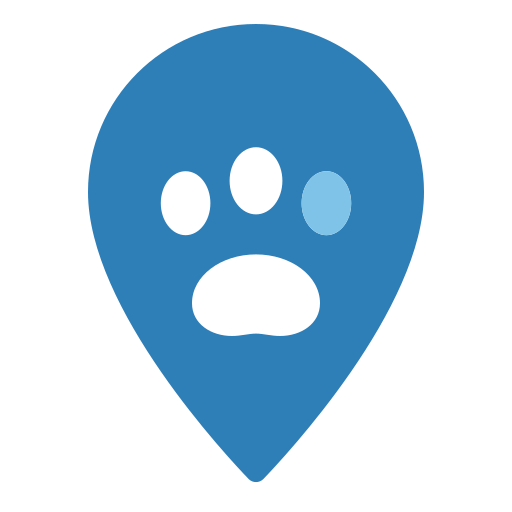
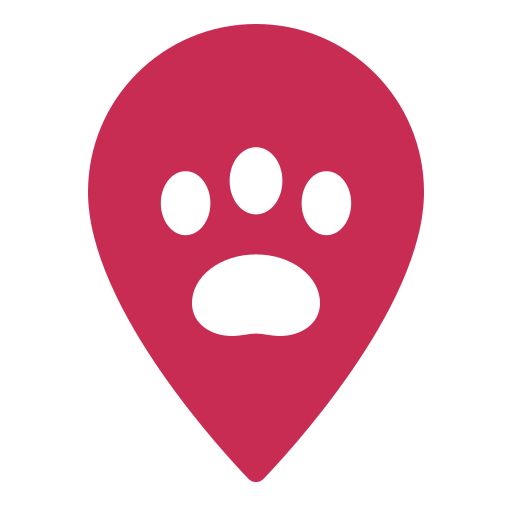
Temayı sadeleştir: beyaz gövde, tek güçlü üst bant, tek renk amblem
Önceki hâlde her yüzey pembeye boyanmıştı ve pembe zeminin üstünde yedi
ayrı kategori rengi (amber, menekşe, gök, camgöbeği…) aynı anda
duruyordu. Renk çokluğu tasarımı zenginleştirmiyor, dağıtıyor.

Kural şimdi net:
  ZEMİN saf beyaz — renk içerikten (fotoğraf, ilan) gelsin.
  ÜST ALANLAR tek güçlü marka rengi (gül #C92C53): başlık çubuğu ve
  birincil düğmeler. Beyaz başlık denendi, gövde de beyaz olduğu için
  üst alan içerikten hiç ayrışmıyordu.
  NÖTR GRİLER kenarlık ve ikincil yüzeylerde; pembe tonlu gri yok.
  KATEGORİ RENKLERİ yalnızca ince şerit olarak. Önce kategori başlığının
  tamamı o renge boyanıyordu ve yedi kategori yan yana gelince menü
  alacalı bir listeye dönüşüyordu.

Amblem tek renk. İki renkli sürüm sitenin gül rengiyle çakışıyordu:
başlıkta beyaz, alt bilgide mavi bir amblem vardı ve ikisi aynı markaya
ait görünmüyordu. Favicon, apple ikonu ve marka SVG'leri de tek renge
geçti.

Ölçüldü: gövde rgb(255,255,255), başlık rgb(201,44,83), beyaz yazı/gül
kontrast 5.30:1 (WCAG AA).

diff --git a/src/components/layout/Header.tsx b/src/components/layout/Header.tsx
@@ -170,10 +170,14 @@ export function Header() {
     if (!user) {
       return (
         <div className="hidden md:flex items-center space-x-2">
-          <Button variant="ghost" asChild>
+          <Button variant="ghost" asChild className="hover:bg-white/15 hover:text-white">
             <Link href="/login" className="text-sm font-medium">Giriş Yap</Link>
           </Button>
-          <Button variant="outline" asChild>
+          <Button
+            variant="outline"
+            asChild
+            className="border-white/50 bg-transparent text-white hover:bg-white/15 hover:text-white"
+          >
             <Link href="/kayit">
               <UserPlus className="mr-2 h-4 w-4" />
               Kayıt Ol
@@ -187,7 +191,7 @@ export function Header() {
       <div className="flex items-center space-x-4">
         <DropdownMenu>
           <DropdownMenuTrigger asChild>
-            <Button variant="ghost" className="flex items-center gap-2 px-3">
+            <Button variant="ghost" className="flex items-center gap-2 px-3 hover:bg-white/15 hover:text-white">
               <span className="font-medium">{profile?.full_name ?? user.email}</span>
               <ChevronDown className="h-4 w-4" />
             </Button>
@@ -230,7 +234,7 @@ export function Header() {
           </DropdownMenuContent>
         </DropdownMenu>
 
-        <Button variant="ghost" size="icon" asChild>
+        <Button variant="ghost" size="icon" asChild className="hover:bg-white/15 hover:text-white">
           <Link href="/mesajlarim">
             <MessageSquare className="h-5 w-5" />
             <span className="sr-only">Mesajlar</span>
@@ -242,30 +246,31 @@ export function Header() {
 
   return (
     <>
-      {/* Başlık çubuğu beyaz.
-          Dolu renkli bant en yaygın ilan sitesi kalıbıydı ve emsallerle aynı
-          silueti veriyordu. Beyaz zemin hem markayı (renkli amblem) öne
-          çıkarıyor hem de altındaki bölüm menüsüyle tek bir blok gibi
-          okunuyor. */}
-      <header className="sticky top-0 z-50 w-full border-b bg-white text-foreground">
+      {/* Başlık çubuğu tek güçlü marka renginde.
+          Beyaz denendi ve sayfa tümüyle renksiz kaldı: gövde zaten beyaz
+          olduğu için üst alan içerikten ayrışmıyordu. Renk yalnızca burada
+          ve birincil düğmelerde — gövde beyaz kaldığı sürece güçlü bir üst
+          bant sayfayı dağıtmıyor, çerçeveliyor. */}
+      <header className="sticky top-0 z-50 w-full bg-primary text-primary-foreground">
         <div className="container flex h-16 items-center px-5">
-          {/* Beyaz zeminde renkli amblem. */}
+          {/* Renkli bantta tek renk amblem: iki renkli sürüm burada
+              okunmuyordu. */}
           <Link href="/" className="mr-6 flex items-center" aria-label="PetSemti ana sayfa">
-            <Logo size={36} />
+            <Logo variant="mono" size={36} />
           </Link>
           
           <div className="flex flex-1 items-center justify-end space-x-4">
               <div className="hidden md:flex items-center space-x-4">
                 {renderAuthContent()}
               </div>
-            <Button asChild>
+            <Button asChild variant="secondary" className="bg-white text-primary hover:bg-white/90">
               <Link href={user ? ilanVerHref(pathname) : '/login'}>İlan Ver</Link>
             </Button>
           </div>
 
           <Sheet open={isSheetOpen} onOpenChange={setSheetOpen}>
             <SheetTrigger asChild>
-              <Button variant="ghost" size="icon" className="md:hidden">
+              <Button variant="ghost" size="icon" className="md:hidden hover:bg-white/15 hover:text-white">
                 <Menu className="h-6 w-6" />
                 <span className="sr-only">Toggle Menu</span>
               </Button>

diff --git a/src/components/layout/CategorySidebar.tsx b/src/components/layout/CategorySidebar.tsx
@@ -243,15 +243,20 @@ export function CategorySidebar({
               const open = isOpen(category.id, index);
               return (
               <section key={category.id}>
-                {/* Her kategorinin kendi tonu: bölümler birbirinden renkle
-                    ayrılıyor, menü tek düze gri bir liste olmaktan çıkıyor. */}
-                <div className={cn('flex items-stretch border-y', kategoriRengi(category.code).yumusak)}>
+                {/* Kategori rengi yalnızca ince bir şerit.
+                    Önce başlığın tamamı o renge boyanıyordu; yedi kategori
+                    yan yana gelince menü alacalı bir listeye dönüşüyordu. */}
+                <div className="flex items-stretch border-y bg-secondary/60">
+                  <span
+                    aria-hidden
+                    className={cn('w-1 shrink-0', kategoriRengi(category.code).dolu)}
+                  />
                   <Link
                     href={`/${category.slug}`}
-                    className="flex flex-1 items-center justify-between px-4 py-2.5 text-sm font-bold"
+                    className="flex flex-1 items-center justify-between px-3 py-2.5 text-sm font-bold hover:text-primary"
                   >
-                    <span className={kategoriRengi(category.code).koyu}>{category.name}</span>
-                    <span className={cn('rounded-full px-2 py-0.5 text-xs font-semibold text-white', kategoriRengi(category.code).dolu)}>
+                    <span>{category.name}</span>
+                    <span className="text-xs font-semibold text-muted-foreground">
                       {category.count}
                     </span>
                   </Link>
@@ -262,7 +267,7 @@ export function CategorySidebar({
                     onClick={() => toggleCategory(category.id, open)}
                     aria-expanded={open}
                     aria-label={`${category.name} cinslerini ${open ? 'gizle' : 'göster'}`}
-                    className={cn('px-3 opacity-70 hover:opacity-100', kategoriRengi(category.code).koyu)}
+                    className="px-3 text-muted-foreground hover:text-primary"
                   >
                     <ChevronDown
                       className={cn('h-4 w-4 transition-transform', open && 'rotate-180')}
@@ -282,7 +287,7 @@ export function CategorySidebar({
                         className={cn(
                           'flex items-center gap-3 border-b px-4 py-2 text-sm transition-colors hover:bg-secondary/60',
                           breed.slug === activeBreedSlug
-                            ? cn(kategoriRengi(category.code).yumusak, 'font-semibold')
+                            ? 'bg-primary/8 font-semibold text-primary'
                             : 'text-foreground'
                         )}
                       >
@@ -297,9 +302,7 @@ export function CategorySidebar({
                         <span
                           className={cn(
                             'shrink-0 text-xs',
-                            breed.count > 0
-                              ? cn('rounded-full px-1.5 font-semibold text-white', kategoriRengi(category.code).dolu)
-                              : 'text-muted-foreground'
+                            breed.count > 0 ? 'font-semibold text-primary' : 'text-muted-foreground'
                           )}
                         >
                           {breed.count}

diff --git a/src/app/globals.css b/src/app/globals.css
@@ -5,39 +5,43 @@
 /**
  * Renk sistemi.
  *
- * Ana renk turuncuydu (#EC5822) ve emsal bir sitenin ana rengiyle
- * (#EA4E1B) neredeyse aynıydı. Palet pembe tonlara taşındı.
+ * TEK GÜÇLÜ RENK, BEYAZ ZEMİN
  *
- * PASTEL NEREDE, KOYU NEREDE
- * Pastel pembe (#E05281 ve açığı) beyaz yazıyla 3.69:1 kontrast veriyor —
- * WCAG AA sınırının (4.5) altında, yani düğme ve bağlantıda okunmuyor.
- * Bu yüzden pastel tonlar YÜZEYLERDE (zemin, kart, kenarlık, rozet
- * arka planı), koyu gül tonu (#C92C53) ise YAZI VE DÜĞMELERDE kullanılıyor.
- * Böylece site pastel görünüyor ama hiçbir yazı okunmaz hâle gelmiyor.
+ * Önce turuncuydu ve emsal bir sitenin rengiyle neredeyse aynıydı; sonra
+ * her yüzeyi pembeye boyadım ve sayfa dağıldı: pembe zeminin üstünde yedi
+ * ayrı kategori rengi (amber, menekşe, gök, camgöbeği…) aynı anda
+ * duruyordu. Renk çokluğu tasarımı zenginleştirmiyor, dağıtıyor.
  *
- * Ölçülen kontrastlar: beyaz yazı / gül zemin 5.30:1, koyu yazı / pastel
- * zemin 13.41:1.
+ * Kural şimdi net:
+ *   ZEMİN saf beyaz — içerik (fotoğraf, ilan, metin) renk taşısın.
+ *   ÜST ALANLAR tek güçlü marka rengi — başlık çubuğu, birincil düğmeler.
+ *   NÖTR GRİLER kenarlık ve ikincil yüzeylerde; pembe tonlu gri yok.
+ *   KATEGORİ RENKLERİ yalnızca küçük vurgu (ince şerit, sayı rozeti),
+ *   asla dolu zemin olarak değil.
+ *
+ * Marka rengi gül (#C92C53): pembe ailesinde ama pastel değil, beyaz
+ * yazıyla 5.30:1 kontrast veriyor (WCAG AA).
  */
 @layer base {
   :root {
-    --background: 345 45% 97%;
-    --foreground: 340 25% 14%;
+    --background: 0 0% 100%;
+    --foreground: 240 8% 12%;
     --card: 0 0% 100%;
-    --card-foreground: 340 25% 14%;
+    --card-foreground: 240 8% 12%;
     --popover: 0 0% 100%;
     --popover-foreground: 240 10% 3.9%;
     --primary: 345 64% 48%;
     --primary-foreground: 0 0% 100%;
-    --secondary: 345 40% 95%;
-    --secondary-foreground: 345 30% 18%;
-    --muted: 345 30% 94%;
-    --muted-foreground: 340 12% 45%;
-    --accent: 345 60% 94%;
-    --accent-foreground: 345 45% 25%;
+    --secondary: 0 0% 96.5%;
+    --secondary-foreground: 240 6% 12%;
+    --muted: 0 0% 96%;
+    --muted-foreground: 240 4% 46%;
+    --accent: 345 70% 96%;
+    --accent-foreground: 345 60% 32%;
     --destructive: 0 84.2% 60.2%;
     --destructive-foreground: 0 0% 98%;
-    --border: 340 25% 88%;
-    --input: 340 25% 88%;
+    --border: 0 0% 90%;
+    --input: 0 0% 90%;
     --ring: 345 64% 48%;
     --radius: 0.9rem;
     --chart-1: 12 76% 61%;
@@ -83,8 +87,8 @@
     --secondary-foreground: 0 0% 98%;
     --muted: 240 3.7% 15.9%;
     --muted-foreground: 240 5% 64.9%;
-    --accent: 345 60% 94%;
-    --accent-foreground: 345 45% 25%;
+    --accent: 345 70% 96%;
+    --accent-foreground: 345 60% 32%;
     --destructive: 0 62.8% 30.6%;
     --destructive-foreground: 0 0% 98%;
     --border: 240 3.7% 15.9%;

diff --git a/src/components/Logo.tsx b/src/components/Logo.tsx
@@ -36,12 +36,15 @@ const PARMAKLAR: [number, number, number, number][] = [
 /** Marka renkleri. Lacivert marka kimliğinden, turuncu sitenin ana rengi. */
 // Marka renkleri site paletiyle aynı: ana renk petrol, vurgu amber.
 // Turuncu amblem yeni palette yabancı duruyordu.
-// Amblem pastel mavi: pembe paletin yanında tamamlayıcı duruyor ve
-// beyaz zeminde de pembe zeminde de seçiliyor. Pati deliği içeriden
-// aydınlatan açık ton, iğnenin kendisi biraz daha koyu — küçük boyutta
-// tek renk lekeye dönüşmesin diye.
-const MAVI = '#2E7EB8';
-const MAVI_ACIK = '#7FC4E8';
+/**
+ * Amblem tek renk.
+ *
+ * İki renkli sürüm (iğne mavi, bir parmak açık mavi) sitenin gül rengiyle
+ * çakışıyordu: başlıkta beyaz, alt bilgide mavi bir amblem vardı ve ikisi
+ * aynı markaya ait görünmüyordu. Tek renk hem her zeminde çalışıyor hem de
+ * amblemi 16 pikselde bile tek bir okunur leke olarak tutuyor.
+ */
+const MARKA = '#C92C53';
 
 export function LogoMark({
   size = 32,
@@ -82,11 +85,8 @@ export function LogoMark({
         ))}
       </mask>
 
-      <path d={IGNE_D} fill={mono ? 'currentColor' : MAVI} mask={`url(#${maskeId})`} />
+      <path d={IGNE_D} fill={mono ? 'currentColor' : MARKA} mask={`url(#${maskeId})`} />
 
-      {/* Tek amber parmak: markanın sıcak vurgusu. Tek renk sürümde yok,
-          orada amblem tek renk kalmalı. */}
-      {!mono && <ellipse cx={40.8} cy={25.4} rx={3.1} ry={4.0} fill={MAVI_ACIK} />}
     </svg>
   );
 }

diff --git a/src/components/layout/SectionNav.tsx b/src/components/layout/SectionNav.tsx
@@ -137,8 +137,8 @@ export function SectionNav() {
         className={cn(
           'flex shrink-0 items-center gap-2 rounded-xl border px-3 py-2 text-sm font-semibold transition-colors',
           guvercinAktif
-            ? 'border-indigo-600 bg-indigo-600 text-white'
-            : 'border-indigo-200 bg-indigo-50 text-indigo-700 hover:bg-indigo-100'
+            ? 'border-primary bg-primary text-primary-foreground'
+            : 'border-primary/25 bg-primary/5 text-primary hover:bg-primary/10'
         )}
       >
         <Bird className="h-4 w-4" />
